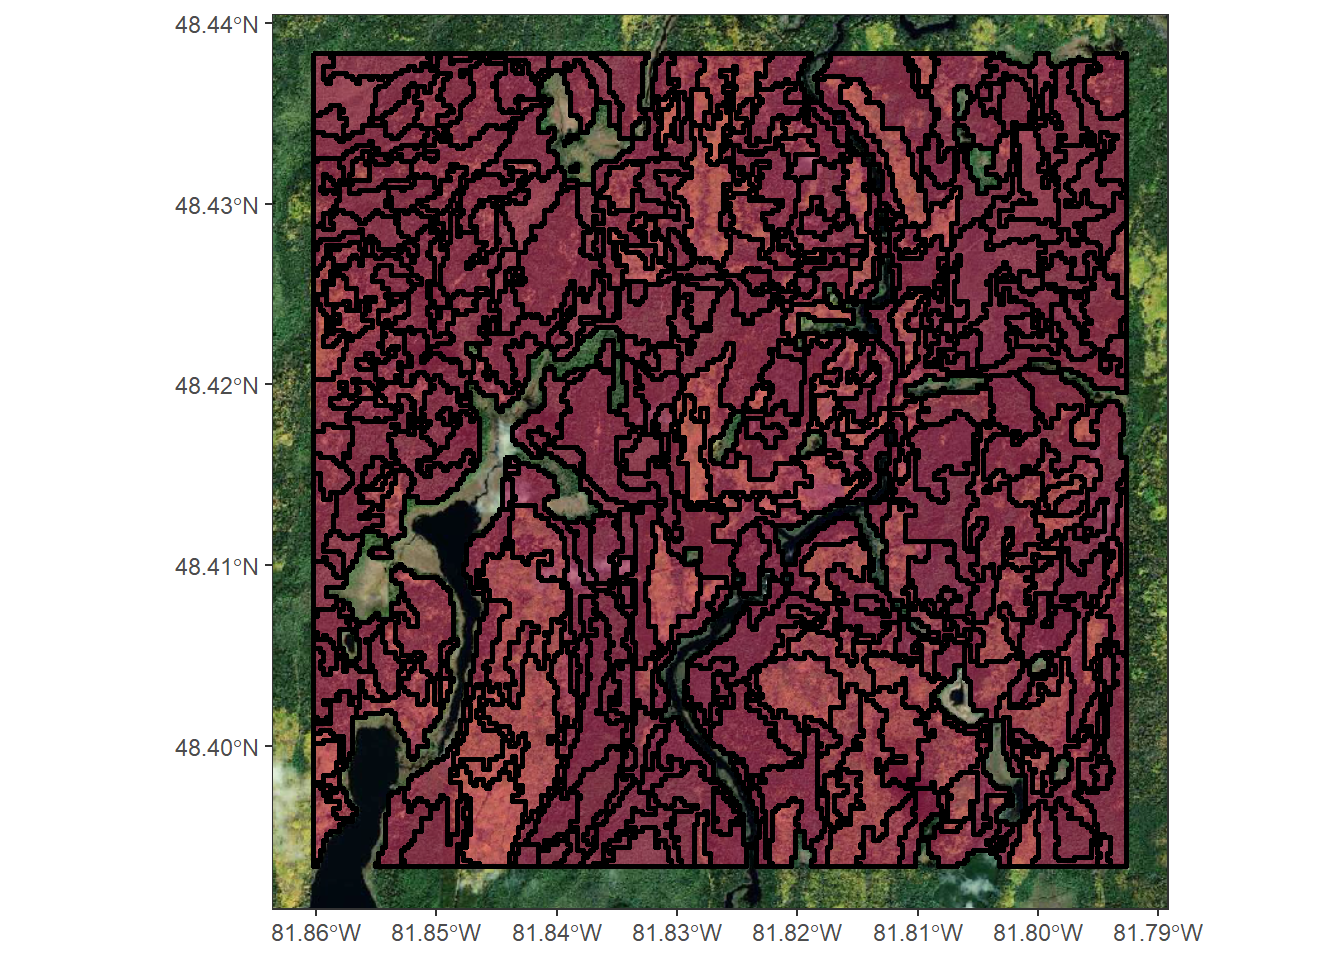
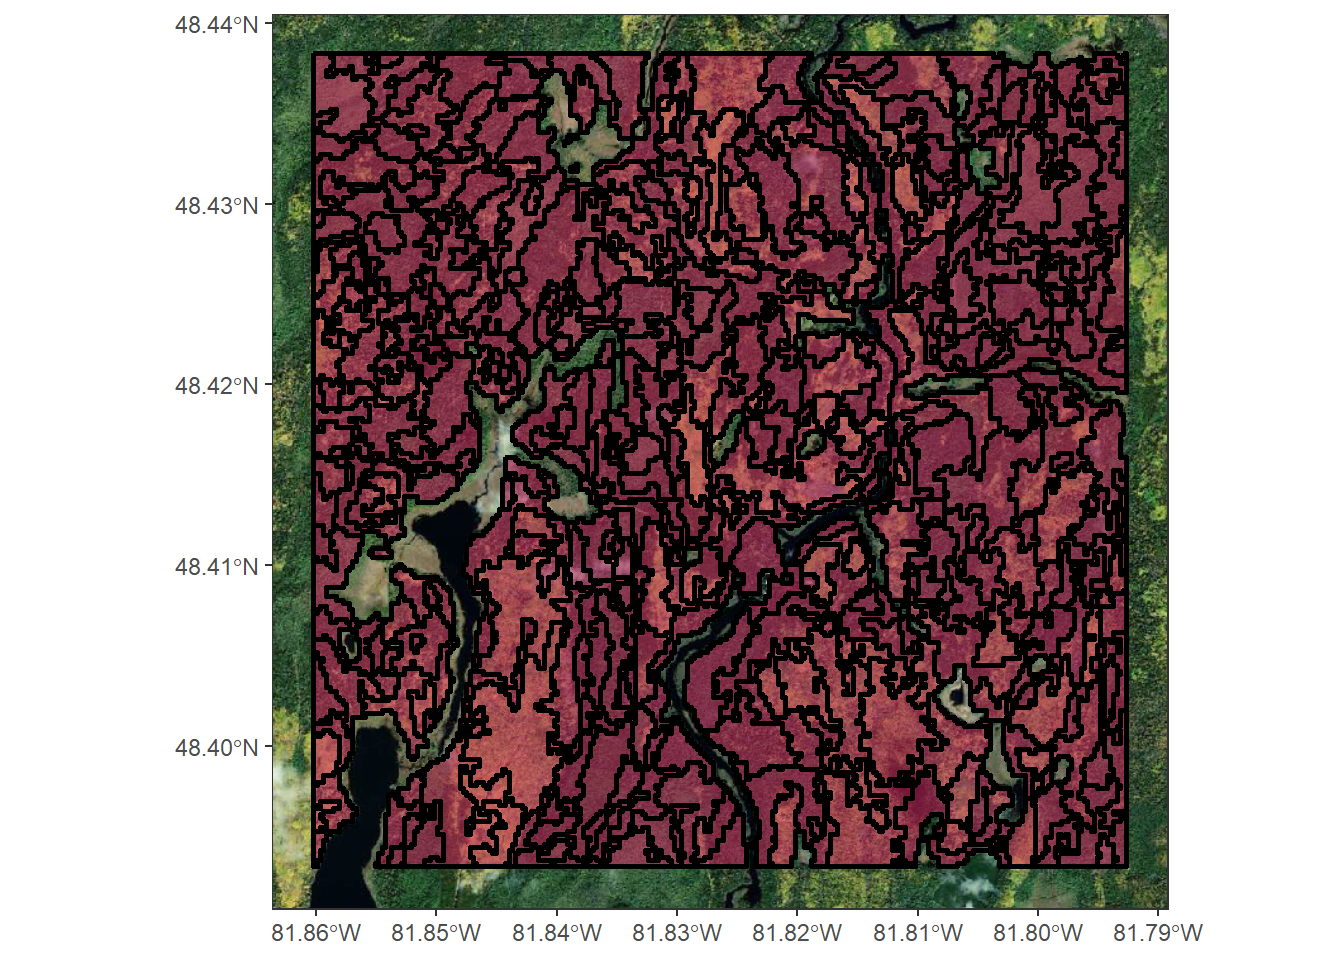
Use the SPL only model for figures, deliverables and app defaults
- Use model_B (SPL only) instead of model_F (SPL + S2 red edge) in
  Data and methods, Project outputs and Appendix A
- Select the model in Appendix A with a params object
- Fix the SMAPE example values of Appendix A
- Export the final deliverables from model_B
- Set app GRM defaults to 50 / 0.5 / 0.5 and validate their ranges
- Render site

Changed region(s): [[0.2188, 0.0625, 0.8438, 0.9062], [0.2188, 0.8125, 0.25, 0.875], [0.4375, 0.0938, 0.4688, 0.125]]

diff --git a/docs/project_outputs.html b/docs/project_outputs.html
@@ -205,7 +205,7 @@ window.Quarto = {
 
 <section id="segmentation-results" class="level1 unnumbered">
 <h1 class="unnumbered"><strong>1</strong> Automated stand delineation</h1>
-<p>In this section and the <a href="#attribute-table-results">next one</a>, the “SPL + S2 red edge” segmentation model was use. As a reminder, the metrics used for this model are theses one : z_p95 + z_above2 + B6. There is a visual example of the metrics used in the <a href="./data_and_method.html#Segmentation-generation">section 2.4 of Data and Methods</a>. For both the Romeo Malette Forest (RMF) and Ottawa Valley Forest (OVF), distribution of area and shape index will be showed for the whole Forest Management Unit scale (in yellow in the figure 1 and 2). Furthermore, a visual example of resulting automated stand delineation that was smoothed in ArcGIS will be shown for a closer subset area (in red in the figure 1 and 2). The restricted area of 5x5 km allows for easier visualization.</p>
+<p>In this section and the <a href="#attribute-table-results">next one</a>, the “SPL only” segmentation model was used, as it is the model retained to produce the final automated stand delineations. As a reminder, the metrics used for this model are these ones : z_p95 + z_above2 + z_skew. There is a visual example of the metrics used in the <a href="./data_and_method.html#Segmentation-generation">section 2.4 of Data and Methods</a>. For both the Romeo Malette Forest (RMF) and Ottawa Valley Forest (OVF), distribution of area and shape index will be showed for the whole Forest Management Unit scale (in yellow in the figure 1 and 2). Furthermore, a visual example of resulting automated stand delineation that was smoothed in ArcGIS will be shown for a closer subset area (in red in the figure 1 and 2). The restricted area of 5x5 km allows for easier visualization.</p>
 <div class="cell">
 <div class="cell-output-display">
 <div id="fig-study-area-subset-rmf" class="quarto-float quarto-figure quarto-figure-center anchored">
@@ -295,7 +295,7 @@ Figure&nbsp;6. Photo-interpreted forest inventory polygons for the Forest Manage
 </div>
 </div>
 </div>
-<p>The resulting polygons can be expected to represent homogeneous forest stands based on choosen metrics. For the whole Romeo Malette Forest, the segmentation produced 70879 polygons representing forest stands. Overall, the number of polygon produced is slightly lower as there is 79094 photo-interpreted forest inventory polygons. For the Ottawa Valley Forest, a total of 51486 polygons was generated by the automated stand delineations which is also lower than than the 68169 photo-interpreted forest inventory polygons.</p>
+<p>The resulting polygons can be expected to represent homogeneous forest stands based on choosen metrics. For the whole Romeo Malette Forest, the segmentation produced 73670 polygons representing forest stands. Overall, the number of polygon produced is slightly lower as there is 79094 photo-interpreted forest inventory polygons. For the Ottawa Valley Forest, a total of 55291 polygons was generated by the automated stand delineations which is also lower than than the 68169 photo-interpreted forest inventory polygons.</p>
 <p>The automated stand delineations can be now compared to photo-interpreted forest inventory polygons for the whole Forest Management Units. Density plots are used to assess whether the distribution of the size and shape are similar. Based on previous parameters obtained by the <a href="https://metafor-ulaval.github.io/Ontario_eFRI/segmentation_parameters_optimisation.html">segmentation parameters optimisation</a>, the difference between distributions are supposed to be minimal and therefore the automated stand delineation should represent operationally plausible forest stand that mimic polygons of the photo-interpreted forest inventory polygons.</p>
 <p>Area in hectare is use for size and shape index is use to assess polygon shape. The shape index is determine by this formula :</p>
 <p><span class="math display">\[
@@ -616,7 +616,7 @@ Figure&nbsp;23. Three functional group class of automated stand delineations
 <h1 class="unnumbered"><strong>3</strong> Performance of automated stand delineations</h1>
 <section id="performance-assessment-visual" class="level2 unnumbered">
 <h2 class="unnumbered anchored" data-anchor-id="performance-assessment-visual"><strong>3.1</strong> Visual comparison of automated stand delineations</h2>
-<p>Polygon boundaries are overlaid on the high-resolution forest-attribute layers used for performance assessment, allowing visual comparison of how the different delineations partition spatial variation in canopy height, merchantable volume, and stem density.</p>
+<p>In the next two figures polygon boundaries are overlaid on the high-resolution forest-attribute layers used for performance assessment, allowing visual comparison of how the different delineations partition spatial variation in canopy height, merchantable volume, and stem density. Also, a imagery have been used in the first row to compare with real colors the stand polygons.</p>
 <div class="cell">
 <div class="cell-output-display">
 <div id="fig-visualisation-s1" class="quarto-float quarto-figure quarto-figure-center anchored">
@@ -704,7 +704,7 @@ Figure&nbsp;28. Performance of automated stand delineations in improving corresp
 </div>
 </div>
 <p>The correspondence between stand boundaries and structural transitions (<a href="#fig-smw" class="quarto-xref">Figure&nbsp;28</a>) shows the largest differences between Forest Management Units. In OVF, the delineations based on SPL metrics strongly improved the correspondence with detected transitions, particularly for canopy height (+29.5 % and +34.1 %) and QMDBH (+27.9 % and +35.9 %). The “SPL + S2 red edge” delineation performed best for three of the four attributes. In RMF, improvements were limited: the “SPL only” delineation improved correspondence for merchantable volume (+12.8 %) but was close to the photo-interpreted map for the other attributes, and the “SPL + S2 red edge” delineation showed slightly poorer correspondence for merchantable volume (-5.9 %) and stem density (-8.6 %). The “S2 only” delineation had poorer correspondence than the photo-interpreted map in both Forest Management Units, with the largest losses in OVF (-18.6 % to -30.1 %).</p>
-<p>Overall, the three criteria lead to consistent conclusions. Automated stand delineations based on SPL metrics performed as well as or better than the photo-interpreted forest inventory map, with clear gains in OVF and more modest gains in RMF. The “SPL only” model was the most consistent across Forest Management Units, while adding the Sentinel-2 red edge band improved boundary correspondence in OVF but not in RMF. Delineations based only on Sentinel-2 imagery performed systematically worse than the photo-interpreted map and are not recommended for structural stand delineation.</p>
+<p>Overall, the three criteria lead to consistent conclusions. Automated stand delineations based on SPL metrics performed as well as or better than the photo-interpreted forest inventory map, with clear gains in OVF and more modest gains in RMF. The “SPL only” model was the most consistent across Forest Management Units, while adding the Sentinel-2 red edge band improved boundary correspondence in OVF but not in RMF. Delineations based only on Sentinel-2 imagery performed systematically worse than the photo-interpreted map and are not recommended for structural stand delineation. Based on these results, the “SPL only” model was retained to produce the final automated stand delineations of both Forest Management Units.</p>
 </section>
 </section>
 <section id="final-polygon" class="level1 unnumbered">

diff --git a/docs/segmentation_parameters_optimisation.html b/docs/segmentation_parameters_optimisation.html
@@ -321,7 +321,7 @@ Figure&nbsp;6. Photo-interpreted forest inventory maps where polygon are conside
 </section>
 <section id="segmentation-input" class="level1 unnumbered">
 <h1 class="unnumbered"><strong>4</strong> Segmentation input</h1>
-<p>The “SPL + S2 red edge” model was used for segmentation parameterization. Theses metrics used in this model are shown in the following figures : * z_p95 → Height of 95th percentiles of returns above 1.3 m * z_above2 → Canopy cover of first returns above 2 m * B6 → Sentinel-2 Vegetation Red Edge 2 (RE2) - 740 nm</p>
+<p>The “SPL only” model was used for segmentation parameterization. Theses metrics used in this model are shown in the following figures : * z_p95 → Height of 95th percentiles of returns above 1.3 m * z_above2 → Canopy cover of first returns above 2 m * z_skew → Skewness of returns above 1.3 m</p>
 <div class="cell">
 <div class="cell-output-display">
 <div id="fig-base-data-7" class="quarto-float quarto-figure quarto-figure-center anchored">
@@ -330,7 +330,7 @@ Figure&nbsp;6. Photo-interpreted forest inventory maps where polygon are conside
 <img src="segmentation_parameters_optimisation_files/figure-html/fig-base-data-7-1.png" class="img-fluid figure-img" width="672">
 </div>
 <figcaption class="quarto-float-caption-bottom quarto-float-caption quarto-float-fig" id="fig-base-data-7-caption-0ceaefa1-69ba-4598-a22c-09a6ac19f8ca">
-Figure&nbsp;7. First metric used for “SPL + S2 red edge” model : z_p95.
+Figure&nbsp;7. First metric used for “SPL only” model : z_p95.
 </figcaption>
 </figure>
 </div>
@@ -344,7 +344,7 @@ Figure&nbsp;7. First metric used for “SPL + S2 red edge” model : z_p95.
 <img src="segmentation_parameters_optimisation_files/figure-html/fig-base-data-8-1.png" class="img-fluid figure-img" width="672">
 </div>
 <figcaption class="quarto-float-caption-bottom quarto-float-caption quarto-float-fig" id="fig-base-data-8-caption-0ceaefa1-69ba-4598-a22c-09a6ac19f8ca">
-Figure&nbsp;8. Second metric used for “SPL + S2 red edge” model : z_above2.
+Figure&nbsp;8. Second metric used for “SPL only” model : z_above2.
 </figcaption>
 </figure>
 </div>
@@ -358,7 +358,7 @@ Figure&nbsp;8. Second metric used for “SPL + S2 red edge” model : z_above2.
 <img src="segmentation_parameters_optimisation_files/figure-html/fig-base-data-9-1.png" class="img-fluid figure-img" width="672">
 </div>
 <figcaption class="quarto-float-caption-bottom quarto-float-caption quarto-float-fig" id="fig-base-data-9-caption-0ceaefa1-69ba-4598-a22c-09a6ac19f8ca">
-Figure&nbsp;9. Third metric used for “SPL + S2 red edge” model : Vegetation Red Edge 2 band from Sentinel-2 (B6).
+Figure&nbsp;9. Third metric used for “SPL only” model : skewness of returns above 1.3 m (z_skew).
 </figcaption>
 </figure>
 </div>
@@ -374,7 +374,7 @@ Figure&nbsp;9. Third metric used for “SPL + S2 red edge” model : Vegetation 
 </ol>
 <p><span class="math display">\[
 SMAPE = \frac{\text{Predicted} - \text{Actual}}{\dfrac{|\text{Actual}| + |\text{Predicted}|}{2}}
-\]</span> Where Predicted is the density of the automated stand delineation polygons and Actual if the density of the photo-interpreted forest inventory polygons. The value is positive when the automated stand delineation has a higher density than the photo-interpreted forest inventory map and negative when it has a lower density. In the example above, the SMAPE of density is 0.17, as the photo-interpreted forest inventory map has a density of 7.25 polygons/km² (1465 polygons) and the segmentation has a density of 8.59 polygons/km² (1650 polygons)</p>
+\]</span> Where Predicted is the density of the automated stand delineation polygons and Actual if the density of the photo-interpreted forest inventory polygons. The value is positive when the automated stand delineation has a higher density than the photo-interpreted forest inventory map and negative when it has a lower density. For example, with the best parameters retained in the results, the SMAPE of density is -0.03, as the photo-interpreted forest inventory map has a density of 13.96 polygons/km² (3102 polygons) and the segmentation has a density of 13.58 polygons/km² (2943 polygons).</p>
 <p>The following two metrics are computed at the pixel level and are therefore area-weighted.</p>
 <ol start="2" type="1">
 <li><p>Overlapping kernel density of the polygon stand area at the pixel level. This performance metric represents how well the distribution of automated stand delineation polygon stand areas matches the distribution of photo-interpreted forest inventory polygon areas</p></li>
@@ -389,7 +389,7 @@ ShapeIndex = \frac{\text{Perimeter}}{2\sqrt{\pi \times \text{Area}}}
 </section>
 <section id="results" class="level1 unnumbered">
 <h1 class="unnumbered"><strong>6</strong> Results</h1>
-<p>The results presented here are, as mentioned before, for Romeo Malette Forest with the “SPL + S2 red edge” model. The SMAPE threshold is 0.1, which represents approximately 10% variation in polygon density. All sets of parameters that produced SMAPE values outside the range of -0.1 to 0.1 were excluded.</p>
+<p>The results presented here are, as mentioned before, for Romeo Malette Forest with the “SPL only” model. The SMAPE threshold is 0.1, which represents approximately 10% variation in polygon density. All sets of parameters that produced SMAPE values outside the range of -0.1 to 0.1 were excluded.</p>
 <div class="cell">
 <div class="cell-output-display">
 <div id="fig-1" class="quarto-float quarto-figure quarto-figure-center anchored">
@@ -422,7 +422,7 @@ Figure&nbsp;11. Final score polygon density based on threshold, weight of spectr
 </div>
 </div>
 </div>
-<p>The following figure shows an example of segmentation in Romeo Malette Forest using the “SPL + S2 red edge” model with the best parameters from the previous figure (threshold of 40, spectral homogeneity of 0.5, and spatial homogeneity of 0.5). There is also an example of a smoothed segmentation, as mentioned earlier.</p>
+<p>The following figure shows an example of segmentation in Romeo Malette Forest using the “SPL only” model with the best parameters from the previous figure (threshold of 50, spectral homogeneity of 1, and spatial homogeneity of 0.1). There is also an example of a smoothed segmentation, as mentioned earlier.</p>
 <div class="cell">
 <div class="cell-output-display">
 <div id="fig-segmentation-2" class="quarto-float quarto-figure quarto-figure-center anchored">

diff --git a/docs/data_and_method.html b/docs/data_and_method.html
@@ -286,11 +286,11 @@ window.Quarto = {
 <li>SPL + S2 red edge (model_F in database) : z_p95 + z_above2 + B6</li>
 <li>S2 only (model_G in database) : B6 + B8 + B11</li>
 </ul>
-<p>The next tree figures represent the metrics used in the “SPL + S2 red edge” model and their meaning :</p>
+<p>The next three figures represent the metrics used in the “SPL only” model, which was retained to produce the final automated stand delineations, and their meaning :</p>
 <ul>
 <li>z_p95 → Height of 95th percentiles of returns above 1.3 m</li>
 <li>z_above2 → Canopy cover of first returns above 2 m</li>
-<li>B6 → Sentinel-2 Vegetation Red Edge 2 (RE2) - 740 nm</li>
+<li>z_skew → Skewness of returns above 1.3 m</li>
 </ul>
 <div class="cell">
 <div class="cell-output-display">
@@ -300,7 +300,7 @@ window.Quarto = {
 <img src="data_and_method_files/figure-html/fig-segmentation-data-1-1.png" class="img-fluid figure-img" width="672">
 </div>
 <figcaption class="quarto-float-caption-bottom quarto-float-caption quarto-float-fig" id="fig-segmentation-data-1-caption-0ceaefa1-69ba-4598-a22c-09a6ac19f8ca">
-Figure&nbsp;1. First metric used for “SPL + S2 red edge” model : z_p95.
+Figure&nbsp;1. First metric used for “SPL only” model : z_p95.
 </figcaption>
 </figure>
 </div>
@@ -314,7 +314,7 @@ Figure&nbsp;1. First metric used for “SPL + S2 red edge” model : z_p95.
 <img src="data_and_method_files/figure-html/fig-segmentation-data-2-1.png" class="img-fluid figure-img" width="672">
 </div>
 <figcaption class="quarto-float-caption-bottom quarto-float-caption quarto-float-fig" id="fig-segmentation-data-2-caption-0ceaefa1-69ba-4598-a22c-09a6ac19f8ca">
-Figure&nbsp;2. Second metric used for “SPL + S2 red edge” model : z_above2.
+Figure&nbsp;2. Second metric used for “SPL only” model : z_above2.
 </figcaption>
 </figure>
 </div>
@@ -328,7 +328,7 @@ Figure&nbsp;2. Second metric used for “SPL + S2 red edge” model : z_above2.
 <img src="data_and_method_files/figure-html/fig-segmentation-data-3-1.png" class="img-fluid figure-img" width="672">
 </div>
 <figcaption class="quarto-float-caption-bottom quarto-float-caption quarto-float-fig" id="fig-segmentation-data-3-caption-0ceaefa1-69ba-4598-a22c-09a6ac19f8ca">
-Figure&nbsp;3. Third metric used for “SPL + S2 red edge” model : Vegetation Red Edge 2 band from Sentinel-2 (B6).
+Figure&nbsp;3. Third metric used for “SPL only” model : skewness of returns above 1.3 m (z_skew).
 </figcaption>
 </figure>
 </div>
